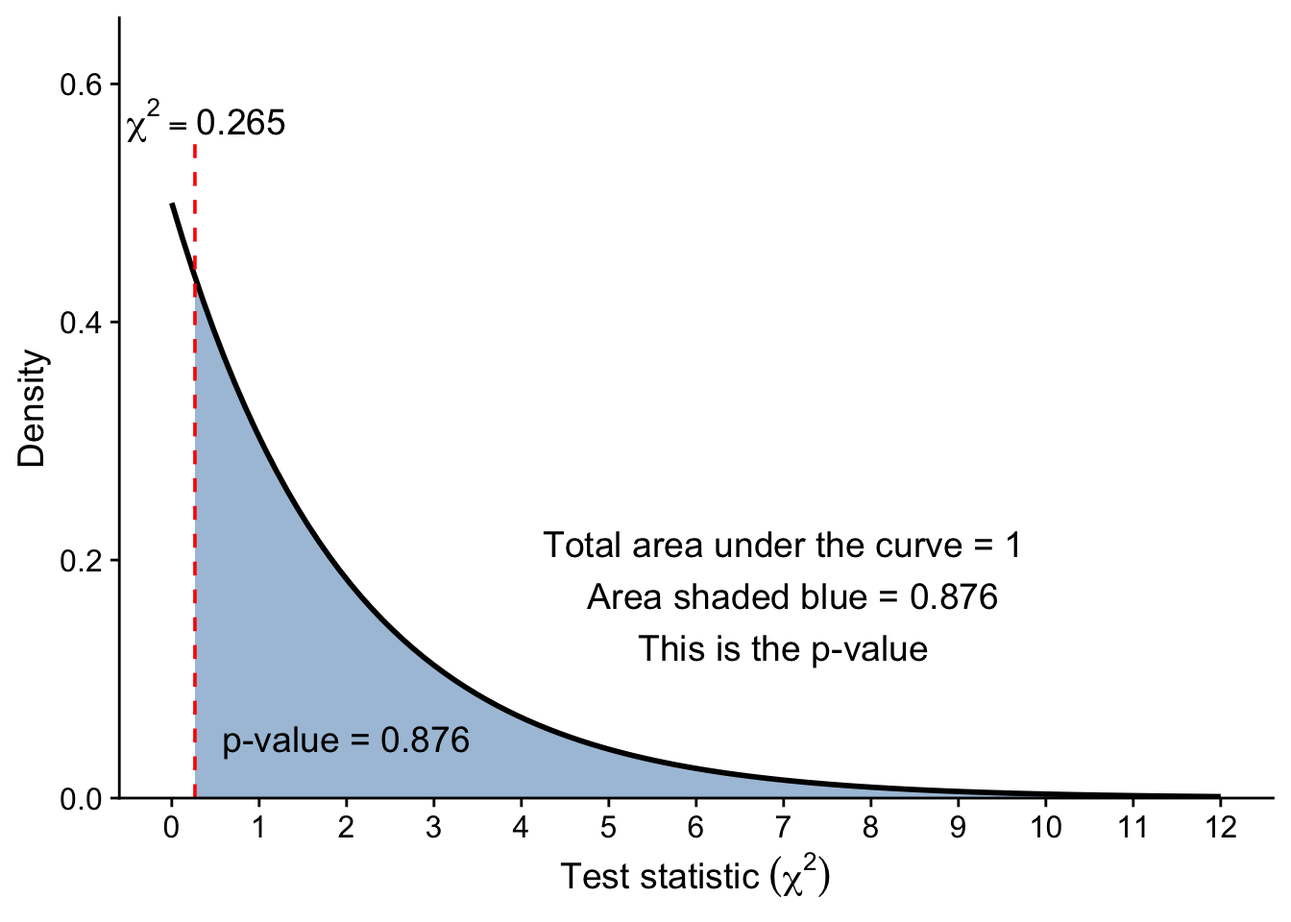
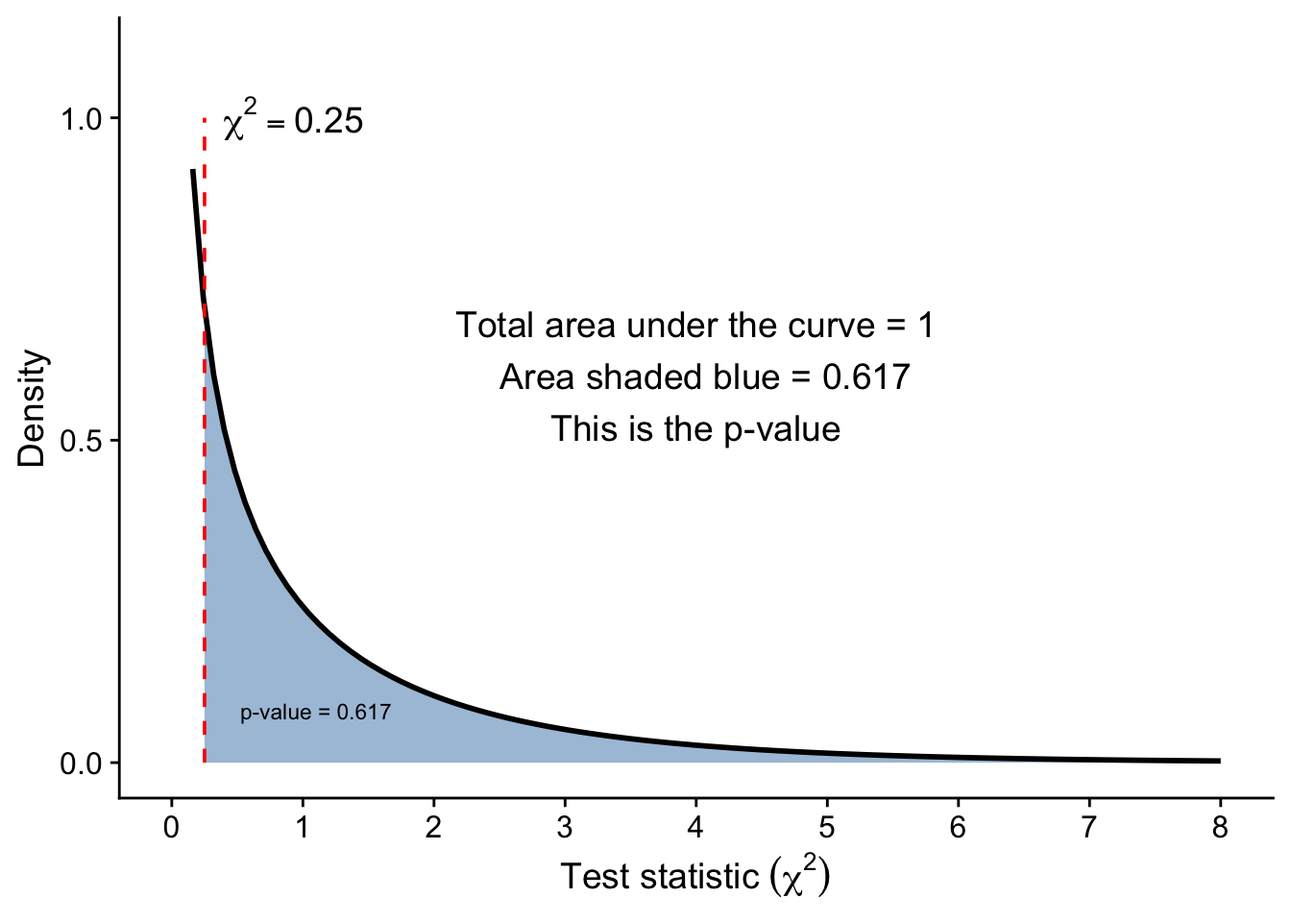
corrections to df and r code

diff --git a/docs/notebooks/hardy-weinberg/hardy-weinberg_example.html b/docs/notebooks/hardy-weinberg/hardy-weinberg_example.html
@@ -144,7 +144,7 @@ window.Quarto = {
       <button type="button" class="quarto-btn-toggle btn" data-bs-toggle="collapse" role="button" data-bs-target=".quarto-sidebar-collapse-item" aria-controls="quarto-sidebar" aria-expanded="false" aria-label="Toggle sidebar navigation" onclick="if (window.quartoToggleHeadroom) { window.quartoToggleHeadroom(); }">
         <i class="bi bi-layout-text-sidebar-reverse"></i>
       </button>
-        <nav class="quarto-page-breadcrumbs" aria-label="breadcrumb"><ol class="breadcrumb"><li class="breadcrumb-item"><a href="../../notebooks/hardy-weinberg/hardy-weinberg_example.html"><span class="chapter-number">5</span>&nbsp; <span class="chapter-title">Hardy-Weinberg example</span></a></li></ol></nav>
+        <nav class="quarto-page-breadcrumbs" aria-label="breadcrumb"><ol class="breadcrumb"><li class="breadcrumb-item"><a href="../../notebooks/hardy-weinberg/hardy-weinberg_example.html"><span class="chapter-number">5</span>&nbsp; <span class="chapter-title">HW example</span></a></li></ol></nav>
         <a class="flex-grow-1" role="navigation" data-bs-toggle="collapse" data-bs-target=".quarto-sidebar-collapse-item" aria-controls="quarto-sidebar" aria-expanded="false" aria-label="Toggle sidebar navigation" onclick="if (window.quartoToggleHeadroom) { window.quartoToggleHeadroom(); }">      
         </a>
       <button type="button" class="btn quarto-search-button" aria-label="Search" onclick="window.quartoOpenSearch();">
@@ -196,7 +196,7 @@ window.Quarto = {
         <li class="sidebar-item">
   <div class="sidebar-item-container"> 
   <a href="../../notebooks/hardy-weinberg/hardy-weinberg_example.html" class="sidebar-item-text sidebar-link active">
- <span class="menu-text"><span class="chapter-number">5</span>&nbsp; <span class="chapter-title">Hardy-Weinberg example</span></span></a>
+ <span class="menu-text"><span class="chapter-number">5</span>&nbsp; <span class="chapter-title">HW example</span></span></a>
   </div>
 </li>
         <li class="sidebar-item">
@@ -326,7 +326,7 @@ q&amp;=\frac{\text{Total number of a alleles}}{\text{Total number of alleles}}\\
 <h2 data-number="5.2" class="anchored" data-anchor-id="hardy-weinberg-expected-values-for-the-genotype-numbers"><span class="header-section-number">5.2</span> Hardy-Weinberg expected values for the genotype numbers</h2>
 <p>So far, all the numbers observed or calculated are true for this population of hedgehogs, whether that is the number of each phenotype or genotype, or the allele propotions p and q.</p>
 <p>Now we calculate the genotype numbers we would <em>expect</em> if the Hardy-Weinberg assumptions hold. To imagine what this means, it helps here to think of the population of hedgehogs as arising from two big bags, one full of <em>N</em> male gametes, the other full of <em>N</em> female gametes. Each of the gametes will contain one copy of the chromosome on which our gene for spine colour sits (and also one copy of all the other chromosomes, but we can ignore them here). A proportion p of these gametes will have the A allele for our gene and a proportion q will have the a allele. This is true overall, and if the population is very large (another Hardy-Weinberg assumption) this will be separately true for both the female and the male gametes. Each hedgehog arises from the union of one female and one male gamete. Under the Hardy-Weinberg assumption of random mating throughout the population, each of these gametes is chosen randomly from its respective bag. The probability that any female gamete drawn from its bag has allele A is p.&nbsp;The same is true for the male gamete. Hence the probability that a hedgehog in our population has genotype AA is p<sup>2</sup>. Hence the proportion of the population that we can <em>expect</em> to have this genotype is also p<sup>2</sup>, and hence too, the number of hedgehogs we would expect to have this genotype is this proportion multiplied by the total size N of the population.</p>
-<p>Hence, if the Hardy-Weinberg assumptions hold, we would <em>expect</em> to have <em>N</em> x <em>p</em><sup>2</sup> = 50 x 0.55 x 0.55 = 15.1 homozygous AA hedgehogs.</p>
+<p>Hence, if the Hardy-Weinberg assumptions hold, we would <em>expect</em> to have <em>N</em> x <em>p</em><sup>2</sup> = 50 x 0.55 x 0.55 = 15.125 homozygous AA hedgehogs.</p>
 <div class="callout callout-style-default callout-note callout-titled" title="Meaning of the term 'expected' ">
 <div class="callout-header d-flex align-content-center">
 <div class="callout-icon-container">
@@ -342,8 +342,8 @@ Meaning of the term ‘expected’
 <p>That is what we turn to next.</p>
 </div>
 </div>
-<p>The expected number of homozygous aa individuals would likewise be <em>N</em> x <em>q</em><sup>2</sup> = 50 x 0.45 x 0.45 = 10.1</p>
-<p>Heterozygous individuals can be formed by getting an A allele from the male gamete and an a allele from the female gamete, or the reverse. Either way, the probability of that happening if Hardy-Weinberg holds and the gametes are selected randomly from their respective bags is <em>pq</em>, so that the total probability of an individual being heterozygous is 2 <em>pq</em> and thus the <em>expected</em> number of heterozygous individuals would be <em>N</em> x 2 <em>pq</em> = 50 x 2 x 0.55 x 0.45 = 24.8</p>
+<p>The expected number of homozygous aa individuals would likewise be <em>N</em> x <em>q</em><sup>2</sup> = 50 x 0.45 x 0.45 = 10.125</p>
+<p>Heterozygous individuals can be formed by getting an A allele from the male gamete and an a allele from the female gamete, or the reverse. Either way, the probability of that happening if Hardy-Weinberg holds and the gametes are selected randomly from their respective bags is <em>pq</em>, so that the total probability of an individual being heterozygous is 2 <em>pq</em> and thus the <em>expected</em> number of heterozygous individuals would be <em>N</em> x 2 <em>pq</em> = 50 x 2 x 0.55 x 0.45 = 24.75</p>
 <div class="callout callout-style-default callout-note callout-titled" title="Arithmetic check">
 <div class="callout-header d-flex align-content-center">
 <div class="callout-icon-container">
@@ -375,19 +375,19 @@ Arithmetic check
 <td style="text-align: center;">AA</td>
 <td style="text-align: center;">dark</td>
 <td style="text-align: center;">16</td>
-<td style="text-align: center;">15.1</td>
+<td style="text-align: center;">15.125</td>
 </tr>
 <tr class="even">
 <td style="text-align: center;">Aa</td>
 <td style="text-align: center;">dark</td>
 <td style="text-align: center;">23</td>
-<td style="text-align: center;">24.8</td>
+<td style="text-align: center;">24.75</td>
 </tr>
 <tr class="odd">
 <td style="text-align: center;">aa</td>
 <td style="text-align: center;">light</td>
 <td style="text-align: center;">11</td>
-<td style="text-align: center;">10.1</td>
+<td style="text-align: center;">10.125</td>
 </tr>
 </tbody>
 </table>
@@ -401,12 +401,12 @@ Arithmetic check
 <p><span class="math display">\[
 \begin{align*}
 \chi^2 &amp;= {\frac{(O-E)^2}{E}}_\text{AA} + {\frac{(O-E)^2}{E}}_\text{Aa} + {\frac{(O-E)^2}{E}}_\text{aa}\\
-&amp;=\frac{(16-15.1)^2}{15.1} +\frac{(23-24.8)^2}{24.8} + \frac{(11-10.1)^2}{10.1}\\
-&amp;= 0.0536 + 0.131 + 0.0802\\
-&amp;= 0.265
+&amp;=\frac{(16-15.125)^2}{15.125} +\frac{(23-24.75)^2}{24.75} + \frac{(11-10.125)^2}{10.125}\\
+&amp;= 0.0506 + 0.124 + 0.076\\
+&amp;= 0.250
 \end{align*}\\
 \]</span> Note that this expression for <span class="math inline">\(\chi^2\)</span> is indeed a measure of how far the observed values differ from the expected numbers, under the null of HW being true for this case. The more the observed values differ from the expected values, the bigger <span class="math inline">\(\chi^2\)</span> becomes. If they were exactly equal to the expected values then <span class="math inline">\(\chi^2\)</span> would be equal to zero. Note too that <span class="math inline">\(\chi^2\)</span> can never be zero, since it is the sum of terms that must each be positive.</p>
-<p>This <span class="math inline">\(\chi^2\)</span> follows a distribution, known as a <span class="math inline">\(\chi^2\)</span> distribution for (in this case) 2 degrees of freedom. It is plotted below in <a href="#fig-chi-square-pdf" class="quarto-xref">Figure&nbsp;<span>5.1</span></a> as a ‘probability density function’. You may have met one of these before, for the normal distribution. The way to understand it is that the area under the curve between and two values of <span class="math inline">\(\chi^2\)</span> on the x-axis gives the probability of <span class="math inline">\(\chi^2\)</span> being in that range. In particular, the area under the curve to the right of a given value of <span class="math inline">\(\chi^2\)</span> gives the probability that <span class="math inline">\(\chi^2\)</span> would have that value, or greater. This probability is the famous p-value: the probability of gettng data as different from the null prediction as ours is, or more different, if the null were true. In this case that means the probability of getting a <span class="math inline">\(\chi^2\)</span> value, as big or bigger than the one we got.</p>
+<p>This <span class="math inline">\(\chi^2\)</span> follows a distribution, known as a <span class="math inline">\(\chi^2\)</span> distribution for (in this case) 1 degree of freedom. It is plotted below in <a href="#fig-chi-square-pdf" class="quarto-xref">Figure&nbsp;<span>5.1</span></a> as a ‘probability density function’. You may have met one of these before, for the normal distribution. The way to understand it is that the area under the curve between and two values of <span class="math inline">\(\chi^2\)</span> on the x-axis gives the probability of <span class="math inline">\(\chi^2\)</span> being in that range. In particular, the area under the curve to the right of a given value of <span class="math inline">\(\chi^2\)</span> gives the probability that <span class="math inline">\(\chi^2\)</span> would have that value, or greater. This probability is the famous p-value: the probability of gettng data as different from the null prediction as ours is, or more different, if the null were true. In this case that means the probability of getting a <span class="math inline">\(\chi^2\)</span> value, as big or bigger than the one we got.</p>
 <div class="callout callout-style-default callout-note callout-titled" title="Degrees of freedom">
 <div class="callout-header d-flex align-content-center">
 <div class="callout-icon-container">
@@ -417,8 +417,10 @@ Degrees of freedom
 </div>
 </div>
 <div class="callout-body-container callout-body">
-<p>You see the term ‘degrees of freedom’ a lot in statistics. It refers to the number of independent pieces of information in a problem. In our chi-square sum, we know that the observed and expected genotype numbers both have to add up to 50, since there are 50 hedgehogs. Consider, for example, the observed numbers for AA, Aa and aa. In any population of 50 hedgehogs, the number with the AA genotype could be anything from 0 to 50. Suppose it was 14. Given that, the number with the Aa genotype could be anything from 0 to 36. Suppose it was 20. Now, the number with the aa genotype <em>has</em> to be 16 since the total is 50. It doesn’t matter which two genotypes you start with, but while there is some freedom in choosing their numbers, there is no freedom in choosin the third, given that the total is 50. Once we know the numbers for two of the genotypes, say AA and Aa, the numbers for the third genotype are determined. Hence, only two of the terms in the chi-square sum are independent and so here we have two degrees of freedom.</p>
-<p>It turns out that <span class="math inline">\(\chi^2\)</span> terms follow a distribution, but the exact form of the distribution depends on the degrees of freedom. In our case, the distribution is that for two degrees of freedom</p>
+<p>You see the term ‘degrees of freedom’ a lot in statistics. It refers to the number of independent pieces of information in a problem. In our chi-square sum, we know that the observed and expected genotype numbers both have to add up to 50, since there are 50 hedgehogs. Consider, for example, the observed numbers for AA, Aa and aa. In any population of 50 hedgehogs, the number with the AA genotype could be anything from 0 to 50. Suppose it was 14. Given that, the number with the Aa genotype could be anything from 0 to 36. Suppose it was 20. Now, the number with the aa genotype <em>has</em> to be 16 since the total is 50. It doesn’t matter which two genotypes you start with, but while there is some freedom in choosing their numbers, there is no freedom in choosing the third, given that the total is 50. Once we know the numbers for two of the genotypes, say AA and Aa, the numbers for the third genotype are determined. Hence, only two of the terms in the chi-square sum are independent and so here you would think we have two degrees of freedom.</p>
+<p>But, in fact, there is only one degree of freedom. In calculating the expected numbers from p and q, we know that p and q sum 1. Hence only one of these is ‘free’. Once we know p we know q and vice-versa. That takes away a degree of freedom</p>
+<p><strong>In general, in problems with two alleles and three genotypes, the degrees of freedom is one.</strong></p>
+<p>It turns out that <span class="math inline">\(\chi^2\)</span> terms follow a distribution, but the exact form of the distribution depends on the degrees of freedom. In our case, the distribution is that for one degree of freedom</p>
 </div>
 </div>
 <div class="cell">
@@ -429,37 +431,47 @@ Degrees of freedom
 <img src="hardy-weinberg_example_files/figure-html/fig-chi-square-pdf-1.png" class="img-fluid figure-img" style="width:90.0%">
 </div>
 <figcaption class="quarto-float-caption-bottom quarto-float-caption quarto-float-fig" id="fig-chi-square-pdf-caption-0ceaefa1-69ba-4598-a22c-09a6ac19f8ca">
-Figure&nbsp;5.1: A Chi-square probability density function for two degrees of freedom. The total area under the curve is one and the area under it between any two values of <span class="math inline">\(\chi^2\)</span> is the probability of <span class="math inline">\(\chi^2\)</span> being in that range. The area shaded blue is the area under the curve to the right of the <span class="math inline">\(\chi^2\)</span> value of 0.265. This is the probsbility of getting a <span class="math inline">\(\chi^2\)</span> value of 0.265 or greater, and thus is the probability of getting genotype numbers as different, or more different, from the Hardy-Weinberg predictions as the ones we got
+Figure&nbsp;5.1: A Chi-square probability density function for one degree of freedom. The total area under the curve is one and the area under it between any two values of <span class="math inline">\(\chi^2\)</span> is the probability of <span class="math inline">\(\chi^2\)</span> being in that range. The area shaded blue is the area under the curve to the right of the <span class="math inline">\(\chi^2\)</span> value of 0.25. This is the probsbility of getting a <span class="math inline">\(\chi^2\)</span> value of 0.25 or greater, and thus is the probability of getting genotype numbers as different, or more different, from the Hardy-Weinberg predictions as the ones we got
 </figcaption>
 </figure>
 </div>
 </div>
 </div>
-<p>For our date, we find <span class="math inline">\(\chi^2\)</span> = 0.265. The area under a <span class="math inline">\(\chi^2\)</span> curve for two degrees of freedom, to the right of this value of <span class="math inline">\(\chi^2\)</span> is 0.876. We call this value the p-value of the the <span class="math inline">\(\chi^2\)</span> test: the probability of getting a <span class="math inline">\(\chi^2\)</span> value this big or bigger if the null were true. I’ll repeat, this is the same thing as the probability of getting observed values as far or further from the expected values as oours were, if the null (Hardy-Winberg holds) were true.</p>
+<p>For our date, we find <span class="math inline">\(\chi^2\)</span> = 0.25. The area under a <span class="math inline">\(\chi^2\)</span> curve for two degrees of freedom, to the right of this value of <span class="math inline">\(\chi^2\)</span> is 0.617. We call this value the p-value of the the <span class="math inline">\(\chi^2\)</span> test: the probability of getting a <span class="math inline">\(\chi^2\)</span> value this big or bigger if the null were true. I’ll repeat, this is the same thing as the probability of getting observed values as far or further from the expected values as oours were, if the null (Hardy-Winberg holds) were true.</p>
 </section>
 <section id="conclusion" class="level2" data-number="5.5">
 <h2 data-number="5.5" class="anchored" data-anchor-id="conclusion"><span class="header-section-number">5.5</span> Conclusion</h2>
-<p>The p-value we get is 0.876. This is almost as big as the largest value a p-value can have, which is 1. In particular, it is bigger than 0.05, the commonly used threshold (known as the significance level) for deciding whether or not to reject a null hypothesis. If p is less than the chosen signficance level, we reject the null. If it isn’t we do not reject the null. Here, p is much bigger than 0.05 so we emphatically do not reject the null. It is very likely that we could have got genotype numbers as different as ours from the expected numbers predicted by Hardy-Weinberg equilibrium, even if all the assumptions of Hardy-Weinberg equlibrium are met.</p>
+<p>The p-value we get is 0.617. Remember that p is a probability, os can only have values in the range 0 to 1. Our p-value is (much) bigger than 0.05, the commonly used threshold (known as the significance level) for deciding whether or not to reject a null hypothesis. If p is less than the chosen signficance level, we reject the null. If it isn’t we do not reject the null. Here, p is much bigger than 0.05 so we emphatically do not reject the null. It is very likely that we could have got genotype numbers as different as ours from the expected numbers predicted by Hardy-Weinberg equilibrium, even if all the assumptions of Hardy-Weinberg equlibrium are met.</p>
 <p>Thus our observations are consistent with Hardy-Weinberg. We find no evidence from the data that the hedgehog population is not in Hardy-Weinberg equilibrium for the spine colouration gene. That doesn’t mean that it definitely <em>is</em> in H-W equilibrium. It just means we have no evidence from this data that it <em>isn’t</em>.</p>
 <p>In the same way, if we tossed a coin 100 times and got 48 heads and 52 tails, that would not constitute evidence that the coin is not fair (that is, one for which heads and tails are equally likely) despite that we didn’t get exactly the <em>expected</em> results of 50 heads and 50 tails. If the coin is fair the probability of getting 48 or fewer heads and 52 or more tails turns out to be 0.76, so getting the results we got is quite likely even if the coin is fair. On the other hand, if we got 30 heads and 70 tails, the probability of that is very, very small with a fair coin, so we would reject the null and decide that the coin is not fair.</p>
 <p>So, don’t imagine that Hardy-Weinberg is not satisfied just because the observed numbers of the different genotypes are not exactly the same as the <em>expected</em> values. The question is, by how much do they differ, and how likely would that be if Hardy-Weinberg holds. A chi-square analysis tells you that.</p>
 </section>
 <section id="doing-the-chi-square-analysis-using-r---optional" class="level2" data-number="5.6">
 <h2 data-number="5.6" class="anchored" data-anchor-id="doing-the-chi-square-analysis-using-r---optional"><span class="header-section-number">5.6</span> Doing the chi-square analysis using R - optional</h2>
-<p>To actually calculate the <span class="math inline">\(\chi^2\)</span> statistic and p-value in a Hardy-Weinberg problem we would now almost always use software. Here is how to do it using R.</p>
+<p>To actually calculate the <span class="math inline">\(\chi^2\)</span> statistic and p-value in a Hardy-Weinberg problem we would now almost always use software. Here is one way to do it using R.</p>
 <p>For this to work, you will need to have installed <a href="https://cloud.r-project.org">R</a> and <a href="https://docs.posit.co/ide/user/download.html">RStudio</a>. Then, open RStudio.</p>
-<p>In the console pane (bottom left of the RStudio window) we can type in the function <code>chisq.tst()</code>. We will give it two arguments between the parentheses. The first is a vector, denoted by <code>c()</code> of the observed numbers of the three genotypes, so we write <code>c(16, 23, 11)</code>. The second is a vector of the proportion that each genotype would have under the null hypothesis of Hardy -Weinberg equlibrium. These proportions will be the expected numbers divided by the total population. We can get this by writing <code>c(15.1, 24.8, 10.1)/50</code>. We need to include the name <code>p</code> of this argument to tell R which of several possible optional arguments we are using. Dividing the whole vector by 50 has the effect of dividing each individual element by 50, so what we are writing is equivalent to writing <code>c(0.302, 0.496, 0.202)</code>. Then, we press enter:</p>
+<p>In the console pane (bottom left of the RStudio window) we can type in the following code, one line at a time. Don’t bother with the comments, which are those lines that begin with a # symbol.</p>
 <div class="cell">
-<div class="sourceCode cell-code" id="cb1"><pre class="sourceCode r code-with-copy"><code class="sourceCode r"><span id="cb1-1"><a href="#cb1-1" aria-hidden="true" tabindex="-1"></a><span class="fu">chisq.test</span>(<span class="fu">c</span>(<span class="dv">16</span>,<span class="dv">23</span>,<span class="dv">11</span>), <span class="at">p =</span> <span class="fu">c</span>(<span class="fl">15.1</span>, <span class="fl">24.8</span>, <span class="fl">10.1</span>)<span class="sc">/</span><span class="dv">50</span>)</span></code><button title="Copy to Clipboard" class="code-copy-button"><i class="bi"></i></button></pre></div>
+<div class="sourceCode cell-code" id="cb1"><pre class="sourceCode r code-with-copy"><code class="sourceCode r"><span id="cb1-1"><a href="#cb1-1" aria-hidden="true" tabindex="-1"></a><span class="co"># observed counts</span></span>
+<span id="cb1-2"><a href="#cb1-2" aria-hidden="true" tabindex="-1"></a>obs <span class="ot">&lt;-</span> <span class="fu">c</span>(<span class="at">AA =</span> <span class="dv">16</span>, <span class="at">Aa =</span>  <span class="dv">23</span>, <span class="at">aa =</span>  <span class="dv">11</span>)   </span>
+<span id="cb1-3"><a href="#cb1-3" aria-hidden="true" tabindex="-1"></a>N <span class="ot">&lt;-</span> <span class="fu">sum</span>(obs)</span>
+<span id="cb1-4"><a href="#cb1-4" aria-hidden="true" tabindex="-1"></a></span>
+<span id="cb1-5"><a href="#cb1-5" aria-hidden="true" tabindex="-1"></a><span class="co"># allele frequencies</span></span>
+<span id="cb1-6"><a href="#cb1-6" aria-hidden="true" tabindex="-1"></a>p <span class="ot">&lt;-</span> (<span class="dv">2</span> <span class="sc">*</span> obs[<span class="st">"AA"</span>] <span class="sc">+</span> obs[<span class="st">"Aa"</span>]) <span class="sc">/</span> (<span class="dv">2</span> <span class="sc">*</span> N)</span>
+<span id="cb1-7"><a href="#cb1-7" aria-hidden="true" tabindex="-1"></a>q <span class="ot">&lt;-</span> <span class="dv">1</span> <span class="sc">-</span> p</span>
+<span id="cb1-8"><a href="#cb1-8" aria-hidden="true" tabindex="-1"></a></span>
+<span id="cb1-9"><a href="#cb1-9" aria-hidden="true" tabindex="-1"></a><span class="co"># expected counts</span></span>
+<span id="cb1-10"><a href="#cb1-10" aria-hidden="true" tabindex="-1"></a>exp <span class="ot">&lt;-</span> N <span class="sc">*</span> <span class="fu">c</span>(p<span class="sc">^</span><span class="dv">2</span>, <span class="dv">2</span> <span class="sc">*</span> p <span class="sc">*</span> q, q<span class="sc">^</span><span class="dv">2</span>)</span>
+<span id="cb1-11"><a href="#cb1-11" aria-hidden="true" tabindex="-1"></a></span>
+<span id="cb1-12"><a href="#cb1-12" aria-hidden="true" tabindex="-1"></a><span class="co"># calculate chi-squared (X2 )statistic</span></span>
+<span id="cb1-13"><a href="#cb1-13" aria-hidden="true" tabindex="-1"></a>X2 <span class="ot">&lt;-</span> <span class="fu">sum</span>((obs <span class="sc">-</span> exp)<span class="sc">^</span><span class="dv">2</span> <span class="sc">/</span> exp)</span>
+<span id="cb1-14"><a href="#cb1-14" aria-hidden="true" tabindex="-1"></a></span>
+<span id="cb1-15"><a href="#cb1-15" aria-hidden="true" tabindex="-1"></a><span class="co"># calculate p-value</span></span>
+<span id="cb1-16"><a href="#cb1-16" aria-hidden="true" tabindex="-1"></a><span class="fu">pchisq</span>(X2, <span class="at">df =</span> <span class="dv">1</span>, <span class="at">lower.tail =</span> <span class="cn">FALSE</span>)</span></code><button title="Copy to Clipboard" class="code-copy-button"><i class="bi"></i></button></pre></div>
 <div class="cell-output cell-output-stdout">
-<pre><code>
-    Chi-squared test for given probabilities
-
-data:  c(16, 23, 11)
-X-squared = 0.3, df = 2, p-value = 0.9</code></pre>
+<pre><code>[1] 0.617</code></pre>
 </div>
 </div>
-<p>In the output, look for the value of the test statistic <span class="math inline">\(\chi^2\)</span>, written here as X-squared, and the p value. Note that these have been rounded to 1 signficant figure.</p>
 
 
 </section>

diff --git a/docs/notebooks/genetic-drift.html b/docs/notebooks/genetic-drift.html
@@ -273,39 +273,16 @@ The following objects are masked from 'package:stats':
 <span id="cb6-8"><a href="#cb6-8" aria-hidden="true" tabindex="-1"></a>  new_population<span class="ot">&lt;-</span><span class="fu">slice_sample</span>(new_population,<span class="at">n=</span><span class="fu">nrow</span>(population), <span class="at">replace =</span> <span class="cn">TRUE</span>)</span>
 <span id="cb6-9"><a href="#cb6-9" aria-hidden="true" tabindex="-1"></a>}</span></code><button title="Copy to Clipboard" class="code-copy-button"><i class="bi"></i></button></pre></div>
 <div class="cell-output cell-output-stdout">
-<pre><code>[1] "1 8"
+<pre><code>[1] "1 10"
 [1] "2 6"
-[1] "3 3"
-[1] "4 1"
-[1] "5 1"
-[1] "6 3"
-[1] "7 2"
-[1] "8 5"
-[1] "9 5"
-[1] "10 6"
-[1] "11 5"
-[1] "12 8"
-[1] "13 6"
-[1] "14 6"
-[1] "15 5"
-[1] "16 8"
-[1] "17 9"
-[1] "18 11"
-[1] "19 8"
-[1] "20 7"
-[1] "21 8"
-[1] "22 12"
-[1] "23 14"
-[1] "24 14"
-[1] "25 14"
-[1] "26 15"
-[1] "27 15"
-[1] "28 15"
-[1] "29 17"
-[1] "30 17"
-[1] "31 19"
-[1] "32 19"
-[1] "33 20"</code></pre>
+[1] "3 8"
+[1] "4 12"
+[1] "5 14"
+[1] "6 13"
+[1] "7 10"
+[1] "8 10"
+[1] "9 15"
+[1] "10 20"</code></pre>
 </div>
 </div>
 </section>
